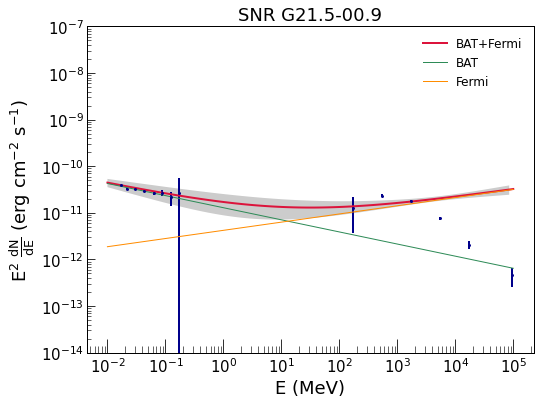
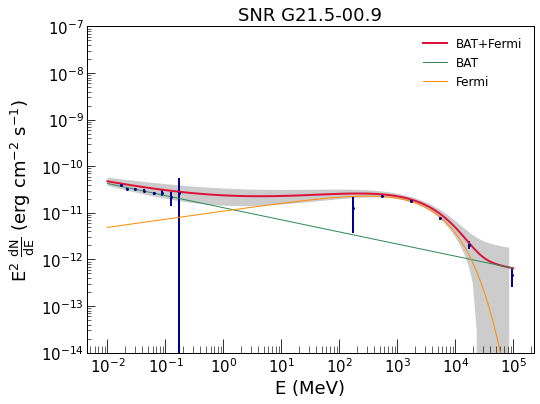
update

Changed region(s): [[0.1778, 0.4455, 0.9481, 0.8911], [0.2074, 0.5941, 0.2963, 0.6238]]

diff --git a/files/MeV_all_source.html b/files/MeV_all_source.html
@@ -29,7 +29,7 @@
 
 This catalog is based on <a href="https://iopscience.iop.org/article/10.3847/1538-4357/ac0341">Tsuji et al. 2021</a>.
 <br>
-<mark> !! for 2-comp SED, non-PL is not working? e.g., Vela pulsar. </mark> <br>
+<!-- <mark> !! for 2-comp SED, non-PL is not working? e.g., Vela pulsar. </mark> <br> (2022-06-07) solved. conversion of "expfactor" in MeV -->
 
 "Flag" column in the tables indicates:
 <ul class="disc">
